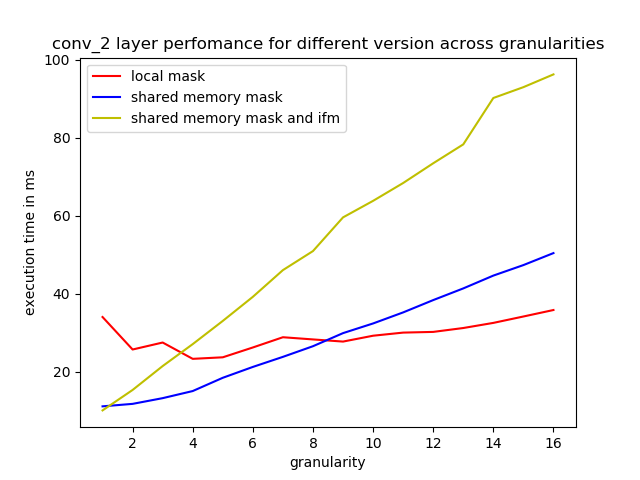
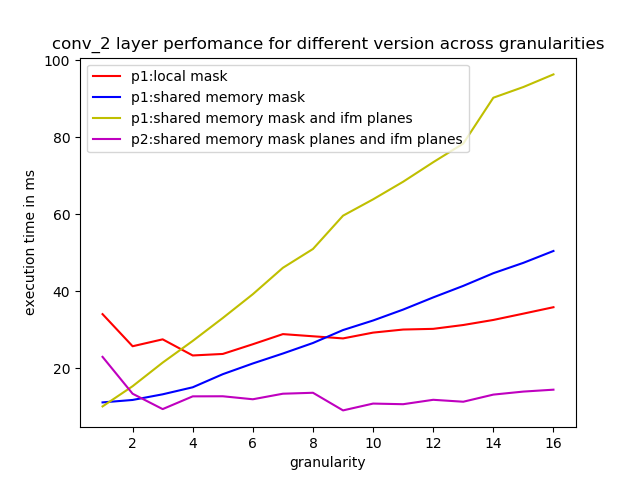
new workload policy in the conv kernel, corresponding plots

diff --git a/plotter.py b/plotter.py
@@ -6,13 +6,15 @@ for i in range(16):
 conv2v1 = [34.058304,25.721504,27.513599,23.327648,23.722464,26.244352,28.87023,28.308384,27.756256,29.259487,30.058687,30.237663,31.234560,32.547775,34.188641,35.854015]
 conv2v2 = [11.141312,11.777248,13.243328,15.066624,18.466688,21.252384,23.835360,26.566463,29.923967,32.405792,35.239902,38.399231,41.394016,44.681984,47.377602,50.455170]
 conv2v3 = [10.101088,15.345600,21.475519,27.104671,33.054241,39.236546,46.087425,50.973343,59.617023,63.858528,68.432800,73.497505,78.343262,90.242973,93.021378,96.295776]
+conv2v4 = [22.965088,13.393248,9.402784,12.712192,12.733280,11.957248,13.396736,13.643520,9.065472,10.836320,10.673696,11.817280,11.316608,13.166016,13.952384,14.444800]
 
 plt.title('conv_2 layer perfomance for different version across granularities')
 plt.ylabel('execution time in ms')
 plt.xlabel('granularity')
 
-plt.plot(granularity,conv2v1,color='r',label='local mask')
-plt.plot(granularity,conv2v2,color='b',label='shared memory mask')
-plt.plot(granularity,conv2v3,color='y',label='shared memory mask and ifm')
+plt.plot(granularity,conv2v1,color='r',label='p1:local mask')
+plt.plot(granularity,conv2v2,color='b',label='p1:shared memory mask')
+plt.plot(granularity,conv2v3,color='y',label='p1:shared memory mask and ifm planes')
+plt.plot(granularity,conv2v4,color='m',label='p2:shared memory mask planes and ifm planes')
 plt.legend(loc='upper left')
 plt.show()

diff --git a/layers/headers.h b/layers/headers.h
@@ -9,4 +9,6 @@ __global__ void conv1(const float *ifm, float *ofm, float *mask, int in_h, int i
 
 __global__ void conv2(const float *ifm, float *ofm, float *mask, int in_h, int in_w, int in_n, int out_h, int out_w, int out_m, int mask_size, int pad, int stride, int granularity);
 
+__global__ void conv3(const float *ifm, float *ofm, float *mask, int in_h, int in_w, int in_n, int out_h, int out_w, int out_m, int mask_size, int pad, int stride, int granularity);
+
 __global__ void val_checker(float* ifm, float* ofm, float *mask, int ifm_size, int ofm_size, int total_mask_size);
